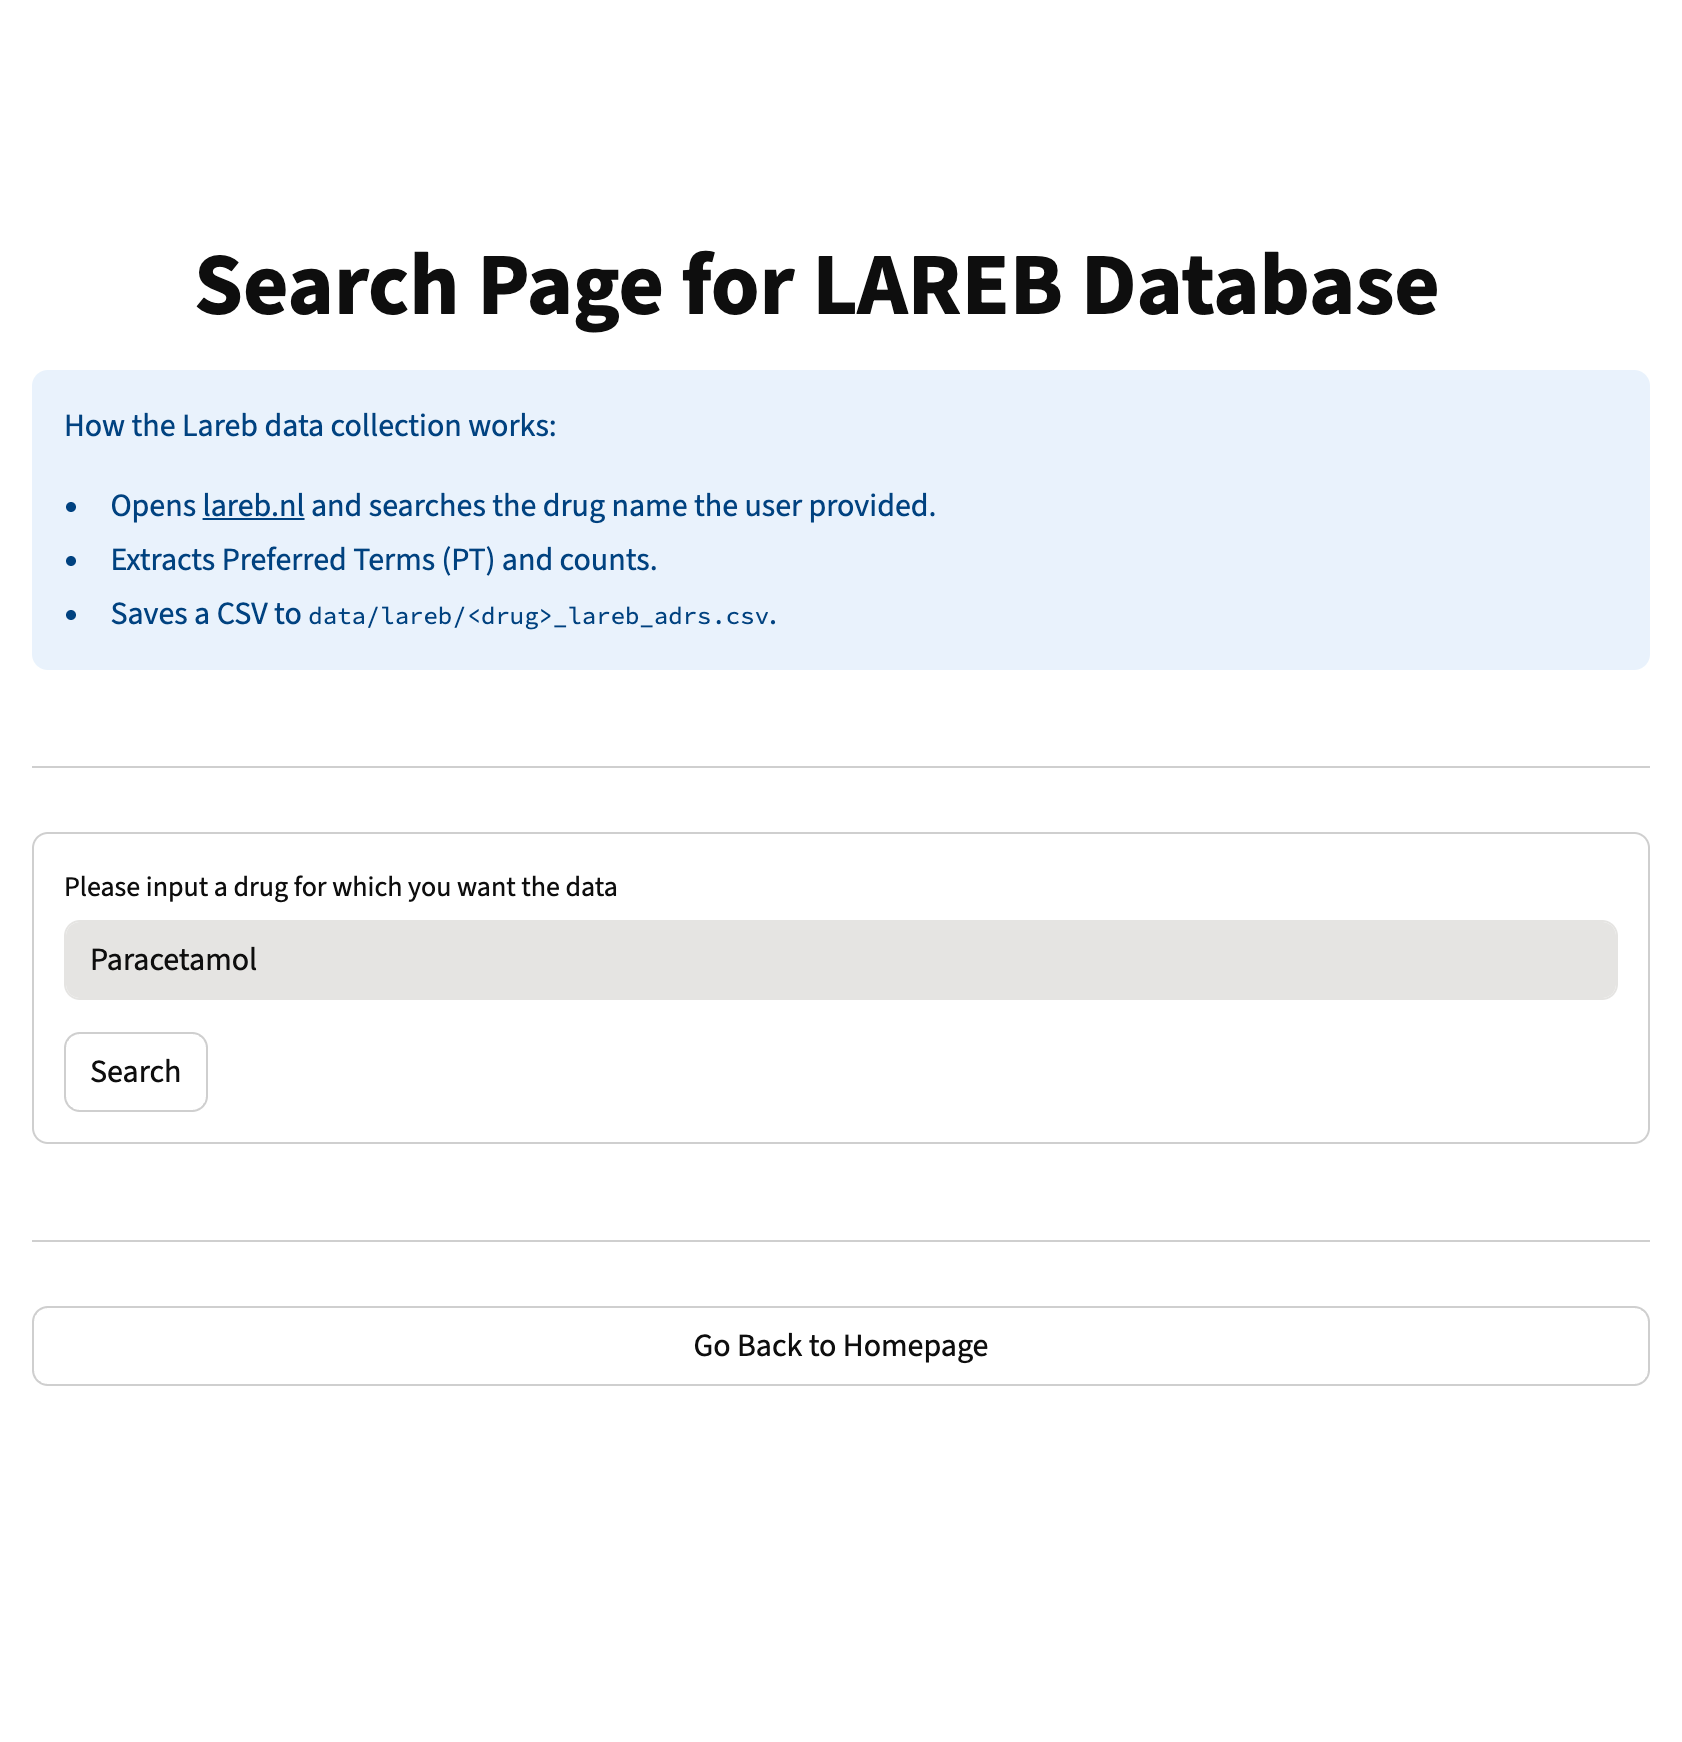
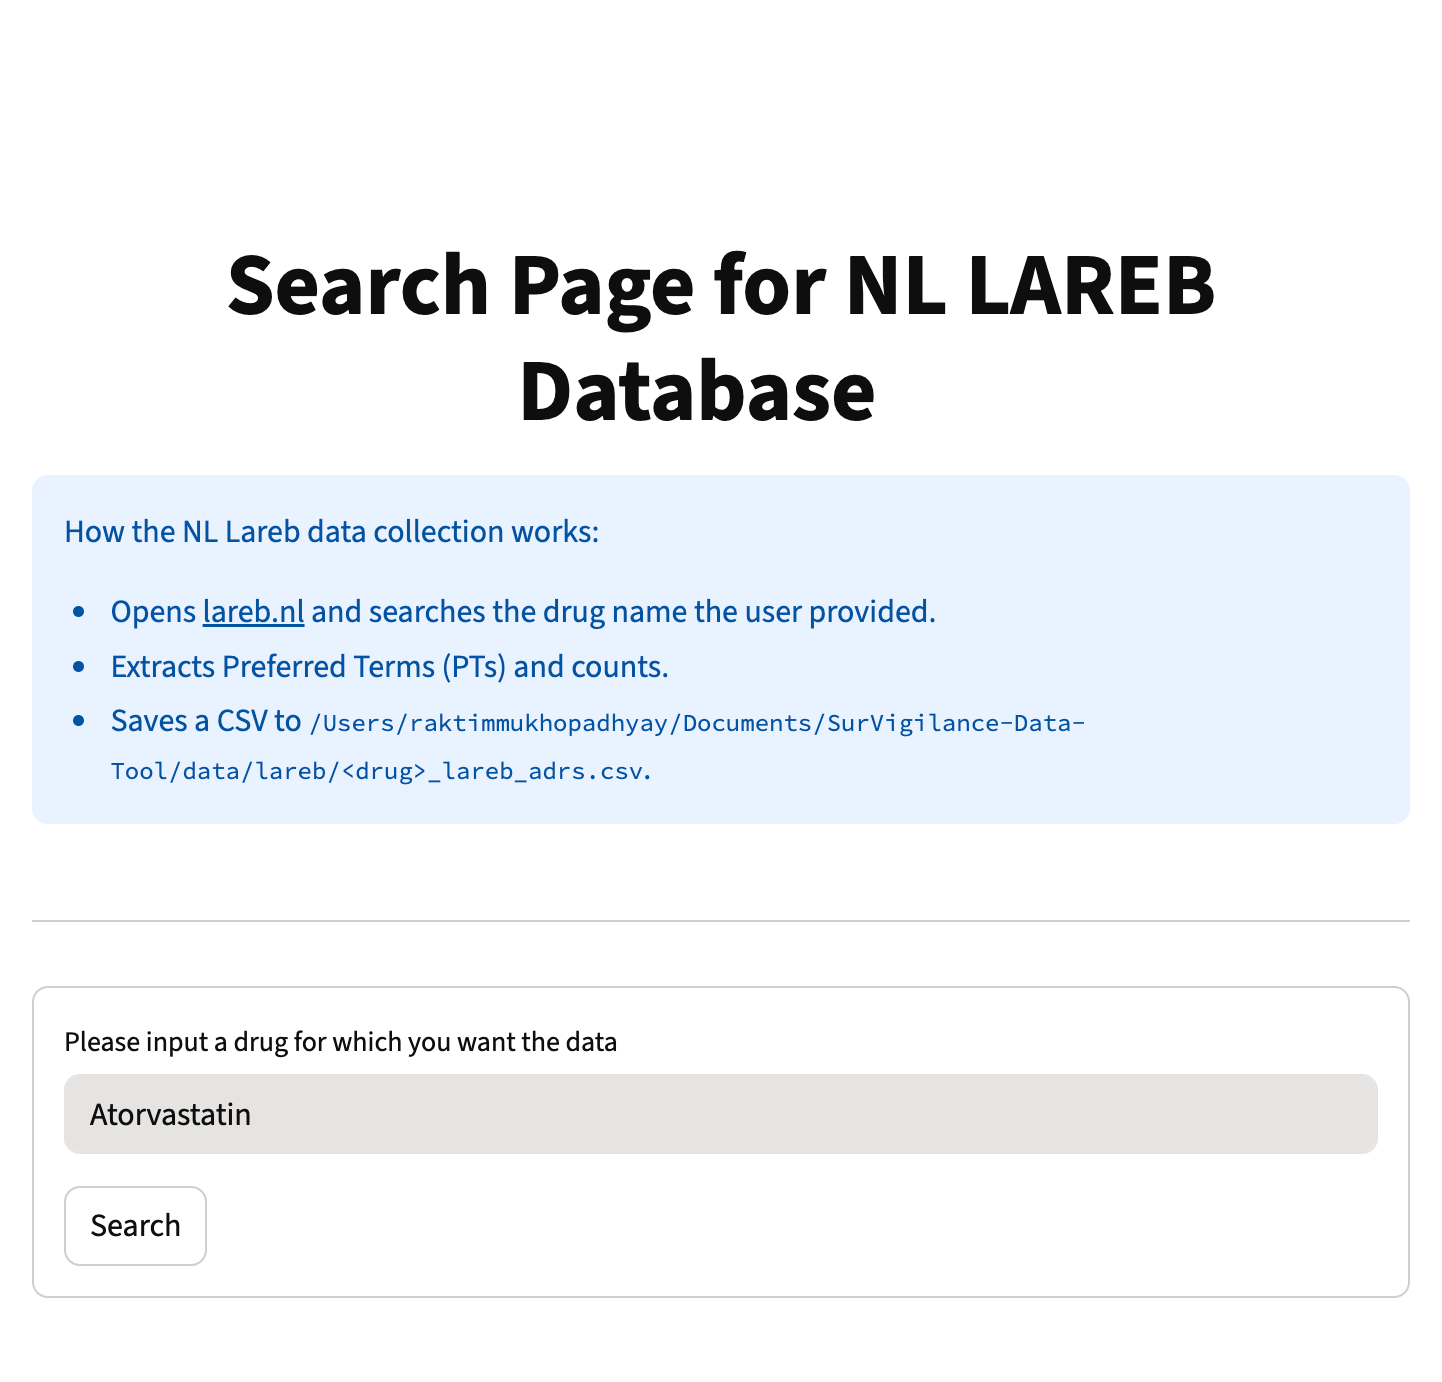
Updated Lareb code to Atorvastatin

diff --git a/docs/source/user_guide/lareb_example.py b/docs/source/user_guide/lareb_example.py
@@ -7,7 +7,7 @@ def main():
     out_dir = "lareb_out"
     os.makedirs(out_dir, exist_ok=True)
 
-    med = "paracetamol"
+    med = "atorvastatin"
 
     df = scrape_lareb_sb(medicine=med, output_dir=out_dir, headless=True)
     print(df.head())

diff --git a/docs/source/user_guide/programmatic.rst b/docs/source/user_guide/programmatic.rst
@@ -15,7 +15,7 @@ In this example, we would like to download data from VigiAccess for the drug "pa
 
 NL Lareb
 ========
-In this example, we would like to download data from Lareb for the drug "paracetamol".
+In this example, we would like to download data from Lareb for the drug "atorvastatin".
 
 .. exec_code::
    :filename: user_guide/lareb_example.py
